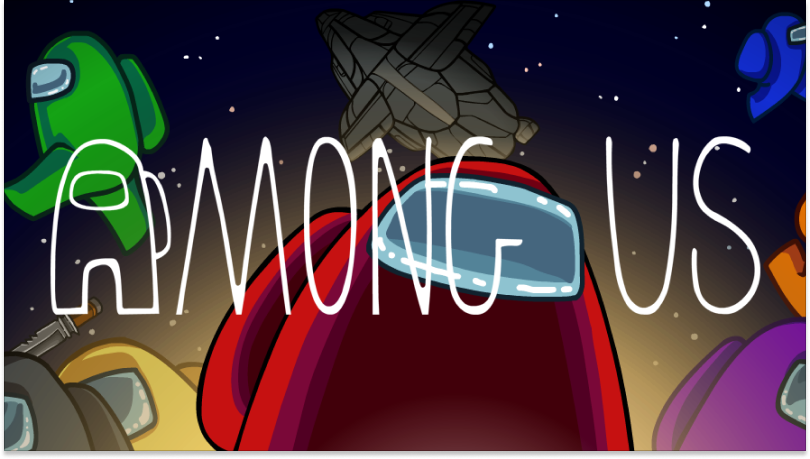
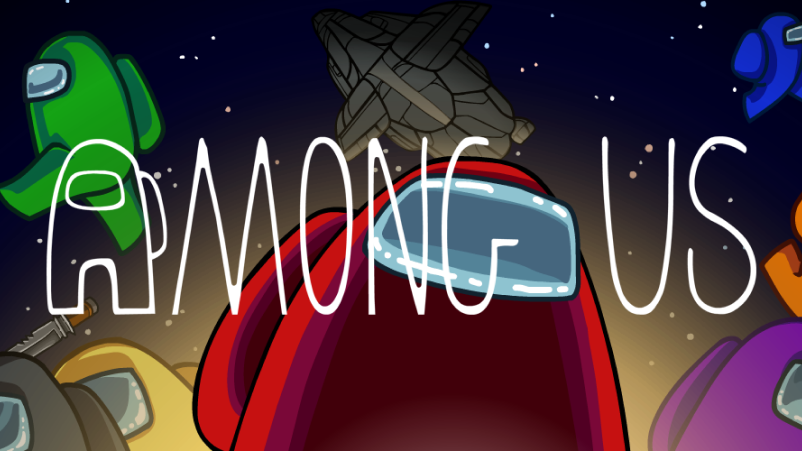
Melhorias CSS

diff --git a/src/app/views/loja/loja.component.css b/src/app/views/loja/loja.component.css
@@ -1,54 +1,19 @@
-.jogo {
-    display: flex;
-    flex-direction: column;
-    vertical-align: top; /* caso a imagem não carregue, alinha pelo topo e não pelo baseline */
-    font-family: 'Poppins', sans-serif;
-    height: 410px;
-    width: 256px;
-    margin: 5px 8px;
-    padding: 5px;
-}
-
-.jogo img {
-    width: 100%;
-    max-height: 80%;
-}
-
-.jogo-nome {
-    padding: 0 5px;
-    height: 90px;
-    overflow: hidden; /* o que é sobreposto é escondido */
-}
-
-.jogo-nome h4 {
-    font-size: 1.2em;
-    font-weight: 600;
-    margin: 0px;
-}
-
-.flex-container-jogos {
-    display: flex;
-    flex-wrap: wrap;
-    justify-content: center;
-    align-items: center;
-
-    margin-bottom: 15px;
-}
-
 .novidades-populares {
-    display: flex;
-    flex-direction: column;
-    vertical-align: top; /* caso a imagem não carregue, alinha pelo topo e não pelo baseline */
-    font-family: 'Poppins', sans-serif;
-    height: 220px;
-    width: 290px;
-    margin: 5px 8px;
-    padding: 5px;
+  display: flex;
+  flex-direction: column;
+  vertical-align: top; /* caso a imagem não carregue, alinha pelo topo e não pelo baseline */
+  font-family: 'Poppins', sans-serif;
+  height: 220px;
+  width: 290px;
+  margin: 5px 8px;
+  padding: 5px;
 }
 
 .novidades-populares img {
-    width: 100%;
-    max-height: 80%;
-}
+  width: 280px;
+  height: 159px;
 
-/* link-jogo no style.css */
+  border: 1px solid rgba(0, 0, 0, 0.2);
+  box-sizing: border-box;
+  filter: drop-shadow(0px 4px 4px rgba(0, 0, 0, 0.25));
+}

diff --git a/src/app/views/jogo-detalhes/jogo-detalhes.component.css b/src/app/views/jogo-detalhes/jogo-detalhes.component.css
@@ -1,31 +1,42 @@
+.imagem-jogo img {
+  width: 802px;
+  height: 451px;
+
+  margin-bottom: 15px;
+
+  border: 1px solid rgba(0, 0, 0, 0.2);
+  box-sizing: border-box;
+  filter: drop-shadow(0px 4px 4px rgba(0, 0, 0, 0.25));
+}
+
 p, .texto {
-    font-family: 'Poppins', sans-serif;
-    font-size: 1.3em;
-    width: 60%;
-    margin: 40px auto;
+  font-family: 'Poppins', sans-serif;
+  font-size: 1.3em;
+  width: 60%;
+  margin: 40px auto;
 }
 
 .botoes a {
-    width: 150px;
-    height: 40px;
+  width: 150px;
+  height: 40px;
 
-    border-radius: 5px;
-    margin-bottom: 30px;
+  border-radius: 5px;
+  margin-bottom: 30px;
 
-    display: flex;
-    align-items: center;
-    justify-content: center;
+  display: flex;
+  align-items: center;
+  justify-content: center;
 
-    text-decoration: none;
-    font-family: 'Archivo', sans-serif;
-    color: var(--color-text-light);
+  text-decoration: none;
+  font-family: 'Archivo', sans-serif;
+  color: var(--color-text-light);
 
-    transition: background 0.2s; /* transição para o hover */
-    background: var(--color-primary);
+  transition: background 0.2s; /* transição para o hover */
+  background: var(--color-primary);
 }
 
 .botoes a:hover{
-    background: var(--color-primary-dark);
+  background: var(--color-primary-dark);
 }
 
 .erro-compra {

diff --git a/src/styles.css b/src/styles.css
@@ -16,6 +16,46 @@ body {
     background-color: var(--color-background);
 }
 
+.jogo {
+  display: flex;
+  flex-direction: column;
+  vertical-align: top; /* caso a imagem não carregue, alinha pelo topo e não pelo baseline */
+  font-family: 'Poppins', sans-serif;
+  height: 410px;
+  width: 256px;
+  margin: 5px 8px;
+  padding: 5px;
+}
+
+.jogo img {
+  width: 237px;
+  height: 316px;
+  border: 1px solid rgba(0, 0, 0, 0.2);
+  box-sizing: border-box;
+  filter: drop-shadow(0px 4px 4px rgba(0, 0, 0, 0.25));
+}
+
+.jogo-nome {
+  padding: 0 5px;
+  height: 90px;
+  overflow: hidden; /* o que é sobreposto é escondido */
+}
+
+.jogo-nome h4 {
+  font-size: 1.2em;
+  font-weight: 600;
+  margin: 0px;
+}
+
+.flex-container-jogos {
+  display: flex;
+  flex-wrap: wrap;
+  justify-content: center;
+  align-items: center;
+
+  margin-bottom: 15px;
+}
+
 .flex-container {
     display: flex;
     flex-direction: column;

diff --git a/src/app/views/biblioteca/biblioteca.component.css b/src/app/views/biblioteca/biblioteca.component.css
@@ -1,38 +1,3 @@
-.jogo {
-  display: flex;
-  flex-direction: column;
-  vertical-align: top; /* caso a imagem não carregue, alinha pelo topo e não pelo baseline */
-  font-family: 'Poppins', sans-serif;
-  height: 410px;
-  width: 256px;
-  margin: 5px 8px;
-  padding: 5px;
-}
-
-.jogo img {
-  width: 100%;
-  max-height: 80%;
-}
-
-.jogo-nome {
-  padding: 0 5px;
-  height: 90px;
-  overflow: hidden; /* o que é sobreposto é escondido */
-}
-
-.jogo-nome h4 {
-  font-size: 1.2em;
-  font-weight: 600;
-  margin: 0px;
-}
-
-.flex-container-jogos {
-  display: flex;
-  flex-wrap: wrap;
-  justify-content: center;
-  align-items: center;
-}
-
 h2 {
   font-family: 'Archivo', sans-serif;
   font-size: 26px;

diff --git a/src/app/components/carousel/carousel.component.html b/src/app/components/carousel/carousel.component.html
@@ -1,7 +1,7 @@
 <carousel>
   <slide *ngFor="let jogo of destaques">
     <a class="link-jogo" routerLink="/jogo-detalhes/{{jogo.id}}">
-      <img [src]="jogo.imgPaisagem" alt="{{jogo.nome}}" style="display: block; width: 100%;">
+      <img [src]="jogo.imgPaisagem" alt="{{jogo.nome}}" style="display: block; width: 810px; height: 459px;">
       <div class="carousel-caption d-none d-md-block">
         <!-- <h3>First slide label</h3>
             <p>Nulla vitae elit libero, a pharetra augue mollis interdum.</p> -->

diff --git a/src/app/views/jogo-detalhes/jogo-detalhes.component.html b/src/app/views/jogo-detalhes/jogo-detalhes.component.html
@@ -1,6 +1,6 @@
 <div class="flex-container">
   <h1>{{jogo.nome}}</h1>
-  <div class="flex-container-jogos">
+  <div class="imagem-jogo">
     <img [src]="jogo.imgPaisagem" />
   </div>
 
